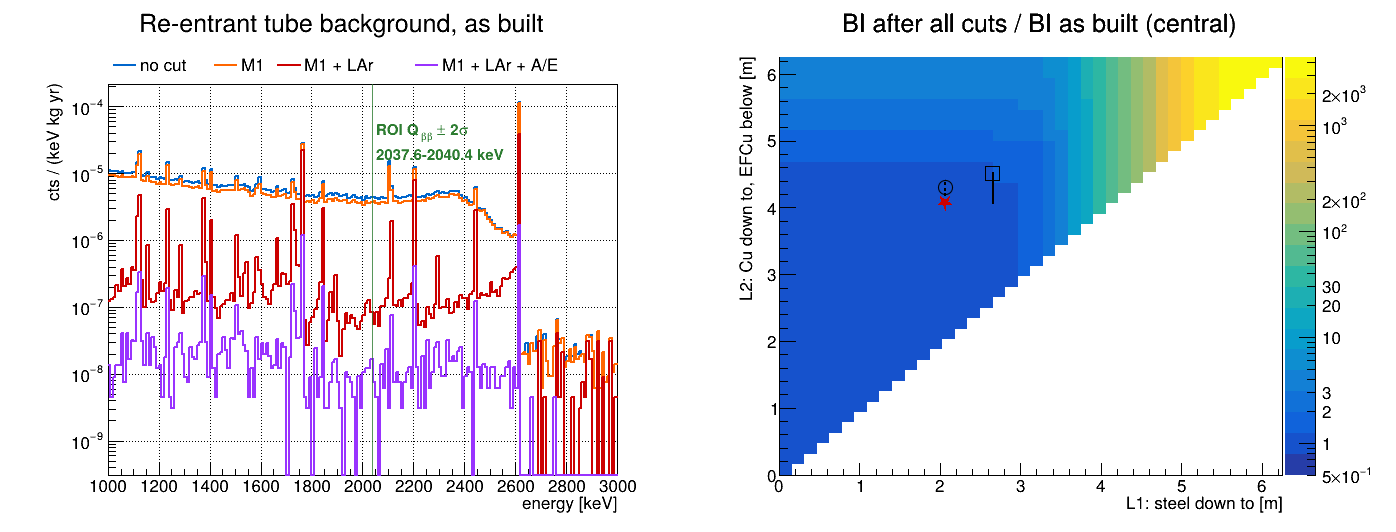
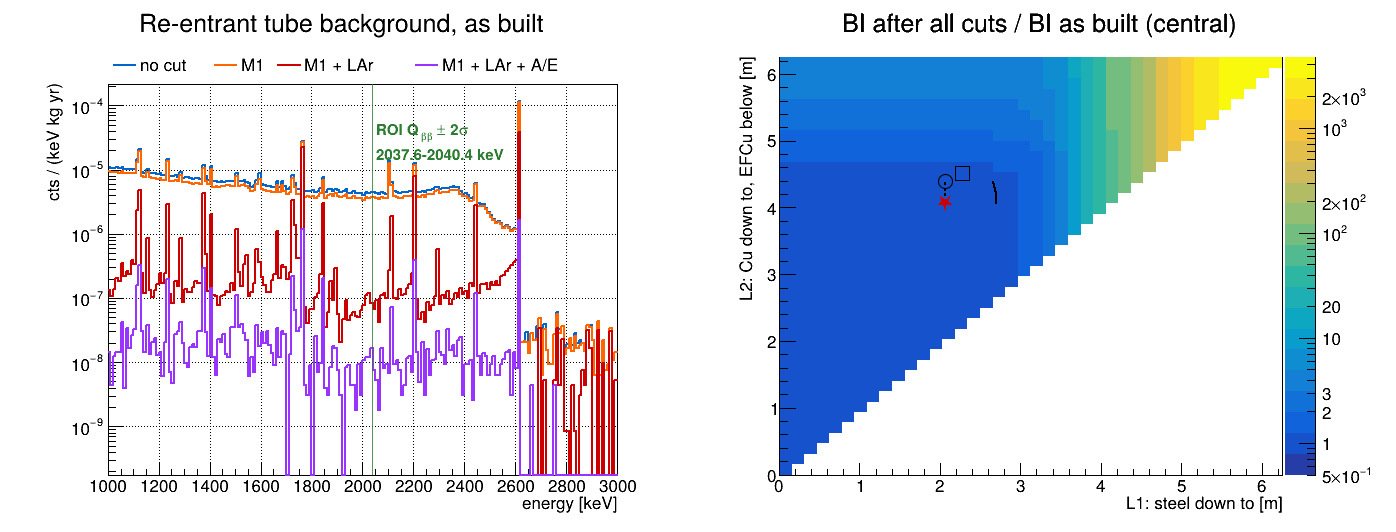
more stat (9 billion decays) better BI

diff --git a/sim/hit.py b/sim/hit.py
@@ -22,7 +22,8 @@ from legendmeta import Legend1000Metadata
 # -------------------------------------------------------------------------------
 #  1. Configuration:
 p = argparse.ArgumentParser(description="detector response of remage runs, with reboost")
-p.add_argument("stp", nargs="+", help="remage LH5 outputs (-m: one file per run)")
+p.add_argument("stp", nargs="+", help="remage LH5 outputs (-m: one file per run); the NERSC ones are in output/output_lh5")
+p.add_argument("--outdir", default="output", help="where each <run>_hit.root goes")
 p.add_argument("--gdml", default="geom/l1000.gdml")
 p.add_argument("--metadata", default=os.environ.get("LEGEND1000_METADATA", os.path.expanduser("~/Documents/legend1000-metadata")))
 p.add_argument("--optmap", default="output/merged_optmap_20260225_063750.lh5", help="UGLAr optical map; its group /all, every SiPM summed, is used")
@@ -91,7 +92,7 @@ for stp in args.stp:
     # random number is drawn from it, the germanium smearing and the argon's photons and photoelectrons alike: reboost.spms's
     # processors draw from an unseeded generator, so the argon calls the reboost.optmap.convolve functions under them
     rng = np.random.default_rng([args.seed, zlib.crc32(os.path.basename(stp).encode())])
-    out = stp.removesuffix(".lh5") + "_hit.root"
+    out = os.path.join(args.outdir, os.path.basename(stp).removesuffix(".lh5") + "_hit.root")
     origins = lh5.read("detector_origins", stp)
     on_disk = set(lh5.ls(stp, "stp/"))
     vtx = lh5.read("vtx", stp).view_as("ak")

diff --git a/README.md b/README.md
@@ -7,9 +7,9 @@ This study calculates the Background Index (BI) before and after cuts, and asks 
 
 | result                          |                                                                                                                                     |
 | ------------------------------- | ----------------------------------------------------------------------------------------------------------------------------------- |
-| as built                        | BI(before-cuts) = 4.60 × 10⁻⁶ cts/(keV·kg·yr), BI(after-cuts) = 1.11 ± 0.12 × 10⁻⁸. **Ratios: 619 : 672 : 175 kg = 42 : 46 : 12 %** |
-| 0.23m less EFCu                 | BI +6%. **Ratios: 619 : 692 : 154 kg = 42 : 47 : 11 %**                                                                             |
-| 0.43m less EFCu & 0.60m more SS | BI +8%. **Ratios: 800 : 507 : 137 kg = 55 : 35 : 10 %**                                                                             |
+| as built                        | BI(before-cuts) = 4.60 × 10⁻⁶ cts/(keV·kg·yr), BI(after-cuts) = 1.03 ± 0.10 × 10⁻⁸. **Ratios: 619 : 672 : 175 kg = 42 : 46 : 12 %** |
+| 0.33m less EFCu                 | BI +10%. **Ratios: 619 : 701 : 146 kg = 42 : 48 : 10 %**                                                                            |
+| 0.43m less EFCu & 0.22m more SS | BI +10%. **Ratios: 685 : 635 : 137 kg = 47 : 44 : 9 %**                                                                             |
 |                                 |
 
 [how radioactive is EFCu?](#how-radioactive-is-efcu) · [Method](#method) ·
@@ -107,27 +107,27 @@ The printout's DECAYS part, per chain: where the decays fell, the germanium hits
 the window), and the normalisation (`simulated` is N_sim, `weight` is N_real / N_sim):
 
 ```
-DECAYS  Tl208  (output/tl208*_hit.root, 125680279 decays, 15 files)
-    where they decayed: EFCu 18.3%, Cu 40.9%, SS 40.8%; in the argon 0, outside the tube 0
-    germanium hits: 1477398, after M1 1261435, + LAr veto 31109, + A/E 4330; of these in the window: 48973, 41447, 494, 86
-    LAr veto keeps 1 in 41 M1 hits; read off the optical map alone, without the argon beyond its edge, 1 in 14
+DECAYS  Tl208  (output/tl208*_hit.root, 1155680279 decays, 118 files)
+    where they decayed: EFCu 2.0%, Cu 39.9%, SS 58.1%; in the argon 0, outside the tube 0
+    germanium hits: 1534079, after M1 1311073, + LAr veto 32663, + A/E 4406; of these in the window: 50695, 43001, 646, 95
+    LAr veto keeps 1 in 40 M1 hits; read off the optical map alone, without the argon beyond its edge, 1 in 14
     the normalisation, per section: volume, mass, activity, simulated decays (and per m^3), weight = real decays a year per simulated one
     section   V [m^3]   M [kg]     A [Bq]  simulated     per m^3   weight
     EFCu      0.01948    174.6  2.322e-05   23040358  1182487533 3.18e-05
-    Cu        0.07497    671.7  2.656e-04   51383783   685374882 0.000163
-    SS        0.07742    619.4  2.226e-01   51256138   662015579    0.137
-    the runs sampled the EFCu 1.755 x as densely as the shells (1 = evenly): each section's weight uses its own density
+    Cu        0.07497    671.7  2.656e-04  461384081  6154102355 1.82e-05
+    SS        0.07742    619.4  2.226e-01  671255840  8669826504   0.0105
+    the runs sampled the EFCu 0.160 x as densely as the shells (1 = evenly): each section's weight uses its own density
 
-DECAYS  Bi214  (output/bi214*_hit.root, 635672115 decays, 66 files)
-    where they decayed: EFCu 3.6%, Cu 47.4%, SS 49.0%; in the argon 0, outside the tube 0
-    germanium hits: 763353, after M1 685024, + LAr veto 31387, + A/E 4346; of these in the window: 2350, 2185, 488, 21
+DECAYS  Bi214  (output/bi214*_hit.root, 7925672115 decays, 795 files)
+    where they decayed: EFCu 0.3%, Cu 40.4%, SS 59.3%; in the argon 0, outside the tube 0
+    germanium hits: 851490, after M1 765253, + LAr veto 34763, + A/E 4670; of these in the window: 2724, 2543, 607, 25
     LAr veto keeps 1 in 22 M1 hits; read off the optical map alone, without the argon beyond its edge, 1 in 10
     the normalisation, per section: volume, mass, activity, simulated decays (and per m^3), weight = real decays a year per simulated one
     section   V [m^3]   M [kg]     A [Bq]  simulated     per m^3   weight
     EFCu      0.01948    174.6  3.317e-05   23030232  1181967842 4.55e-05
-    Cu        0.07497    671.7  8.733e-04  301384853  4019976653 9.14e-05
-    SS        0.07742    619.4  1.548e+00  311257030  4020142973    0.157
-    the runs sampled the EFCu 0.294 x as densely as the shells (1 = evenly): each section's weight uses its own density
+    Cu        0.07497    671.7  8.733e-04 3201387003 42701220320 8.61e-06
+    SS        0.07742    619.4  1.548e+00 4701254880 60720610131   0.0104
+    the runs sampled the EFCu 0.023 x as densely as the shells (1 = evenly): each section's weight uses its own density
 ```
 
 ### 3. Inputs
@@ -145,7 +145,7 @@ Bi-214 is 100% of the ²³⁸U chain; Tl-208 35.94% of the ²³²Th chain [[8]](
 
 ```
 INPUTS  window: 1950-2350 keV minus 10 keV around 2039, 2103.5, 2118.5, 2204.1 keV (MAJORANA's BEW): 360 keV
-        cuts: M1 (exactly one detector above 25 keV), LAr veto (the SiPMs see < 4 photoelectrons), A/E classifier > -1.10 (90% DEP, A/E CUT)
+        cuts: M1 (exactly one detector above 25 keV), LAr veto (the SiPMs see < 4 photoelectrons), A/E classifier > -1.07 (90% DEP, A/E CUT)
         activity: chain [uBq/kg] 232Th / 238U: SS 1000 / 2500, Cu 1.1 / 1.3, EFCu 0.37 / 0.19; Tl208 is 35.94% of 232Th, Bi214 100% of 238U
 ```
 
@@ -159,7 +159,7 @@ experiment `l1000dsg01`) [[6]](#references), applied with reboost [[7]](#referen
 | A/E            | A: max of one template current pulse per step, at its drift time; σ_A/E = 0.01                   | `pars/geds/currmod`, `aoeresmod`; `output/dtmap_V00000A.lh5` |
 | photoelectrons | LAr scintillation × the summed optical map; σ 0.3 PE, 16 ns merging, ≤ 100 PE per hit            | `/all` of the optical map; `tier/opt`                        |
 | M1, LAr veto   | one detector above 25 keV; rejects ≥ 4 PE summed                                                 | `tier/evt`                                                   |
-| A/E cut        | classifier > −1.10, tuned to keep 90% of the Tl-208 DEP; the production's −1.5 keeps 91%         | LEGEND's convention                                          |
+| A/E cut        | classifier > −1.07, tuned to keep 90% of the Tl-208 DEP; the production's −1.5 keeps 92%         | LEGEND's convention                                          |
 
 - **A/E** is the amplitude of the current-pulse over the energy. A gamma that scatters several times
   in the crystal spreads its charge out in time, giving a broad, low pulse: A/E << 1.
@@ -169,9 +169,9 @@ experiment `l1000dsg01`) [[6]](#references), applied with reboost [[7]](#referen
   window, next to `V00000A`'s measurement at HADES:
 
   ```
-  A/E CUT  tuned on the Tl208 DEP (1592.5 keV) in M1 hits: 1000 in +-2.5 keV, 1026 in the sidebands 5-10 keV off it, 487 net
-      classifier > -1.10 keeps 90% of it (+- 1% statistics); the production's > -1.50 kept 91%
-      kept by it, net of the continuum:  DEP 1592.5 0.90 (487 net)  SEP 2103.5 0.02 (2798 net)  FEP 2614.5 0.04 (35540 net)  window 0.26 (41447)
+  A/E CUT  tuned on the Tl208 DEP (1592.5 keV) in M1 hits: 1045 in +-2.5 keV, 1089 in the sidebands 5-10 keV off it, 500 net
+      classifier > -1.07 keeps 90% of it (+- 1% statistics); the production's > -1.50 kept 92%
+      kept by it, net of the continuum:  DEP 1592.5 0.90 (500 net)  SEP 2103.5 0.02 (2862 net)  FEP 2614.5 0.04 (36212 net)  window 0.25 (43001)
       measured on V00000A at HADES:       DEP 1592.5 0.90            SEP 2103.5 0.04            FEP 2614.5 0.06            window 0.27
   ```
 - **Optical map** (M. Neuberger [[5]](#references)): for every 5 mm cell of the UGLAr, the probability that a
@@ -184,39 +184,39 @@ A designs BI is the as-built's plus the change. Too few events survive all cuts 
 them, so it is counted on the window events that pass M1, 100-500 times more, times the **cut survival**: the fraction of
 them that also pass the LAr veto and A/E (window events after all cuts / after M1). It is measured where the change is:
 
-- near the detectors (below 4.37 m), per chain: 2.0 × 10⁻³ (Tl-208), 9.9 × 10⁻³ (Bi-214);
-- higher up, both chains together: 4 of 662 = 6.0 × 10⁻³ (90% bound 1.2 × 10⁻²). Tl-208's events survive
-  ~3 × more often there, partly because the optical map gives no light above z = 1.375 m.
+- near the detectors (below 4.37 m), per chain: 1.9 × 10⁻³ (Tl-208), 9.9 × 10⁻³ (Bi-214);
+- higher up, both chains together: 20 of 2574 = 7.8 × 10⁻³ (90% bound 1.0 × 10⁻²). Tl-208's events survive
+  ~4 × more often there, partly because the optical map gives no light above z = 1.375 m.
 
 Both come from the printout's DEPTH part, per chain and 0.62 m slab below the tube's top: near, the rows below
-4.37 m summed; higher up, the rows above summed over both chains (Tl-208 2 + 41 + 566, Bi-214 8 + 45 = 662
-events after M1, 4 after all cuts):
+4.37 m summed; higher up, the rows above summed over both chains (Tl-208 1 + 13 + 324 + 1825, Bi-214 2 + 64 + 345 = 2574
+events after M1, 20 after all cuts):
 
 ```
 DEPTH  Tl208  by depth below the tube's top: decays, germanium hits per decay, window events after M1 and after all cuts,
        and the cut survival = window events after all cuts / after M1
     depth [m]            decays   hits/decay   window: M1   all cuts   survival
-     0.00..0.62       15527714     0.00e+00            0          0      -
-     0.62..1.25       15520616     0.00e+00            0          0      -
-     1.25..1.87       15528133     0.00e+00            0          0      -
-     1.87..2.50       15896343     6.29e-08            0          0      -
-     2.50..3.12       16043166     3.43e-06            2          0 0.0000
-     3.12..3.75       16051397     8.74e-05           41          2 0.0488
-     3.75..4.37       11560446     1.74e-03          566          2 0.0035
+     0.00..0.62      203333344     0.00e+00            0          0      -
+     0.62..1.25      203322352     0.00e+00            0          0      -
+     1.25..1.87      203326079     9.84e-09            0          0      -
+     1.87..2.50      162294983     1.48e-07            1          0 0.0000
+     2.50..3.12      144561683     3.94e-06           13          0 0.0000
+     3.12..3.75      144567606     8.79e-05          324          6 0.0185
+     3.75..4.37       74721768     8.70e-04         1825         10 0.0055
      4.37..5.00        6949906     4.53e-02         8960         19 0.0021
-     5.00..5.62        6947684     1.07e-01        20651         45 0.0022
-     5.62..6.25        5654874     6.98e-02        11227         18 0.0016   <- nearest the detectors
+     5.00..5.62        6947684     1.07e-01        20651         44 0.0021
+     5.62..6.25        5654874     6.98e-02        11227         16 0.0014   <- nearest the detectors
 
 DEPTH  Bi214  by depth below the tube's top: decays, germanium hits per decay, window events after M1 and after all cuts,
        and the cut survival = window events after all cuts / after M1
     depth [m]            decays   hits/decay   window: M1   all cuts   survival
-     0.00..0.62       94273410     0.00e+00            0          0      -
-     0.62..1.25       94293221     0.00e+00            0          0      -
-     1.25..1.87       94290361     0.00e+00            0          0      -
-     1.87..2.50       94371578     2.12e-08            0          0      -
-     2.50..3.12       94424017     3.71e-07            0          0      -
-     3.12..3.75       94410451     1.40e-05            8          0 0.0000
-     3.75..4.37       50064866     2.51e-04           45          0 0.0000
+     0.00..0.62     1424091422     0.00e+00            0          0      -
+     0.62..1.25     1424081353     0.00e+00            0          0      -
+     1.25..1.87     1424033087     0.00e+00            0          0      -
+     1.87..2.50     1130168048     5.31e-09            0          0      -
+     2.50..3.12     1003529040     4.19e-07            2          0 0.0000
+     3.12..3.75     1003487464     1.44e-05           64          1 0.0156
+     3.75..4.37      496737490     1.75e-04          345          3 0.0087
      4.37..5.00        6943838     2.28e-02          454          5 0.0110
      5.00..5.62        6943493     5.59e-02         1099         10 0.0091
      5.62..6.25        5656880     3.59e-02          579          6 0.0104   <- nearest the detectors
@@ -230,16 +230,16 @@ is shown too.
 
 ## Results
 
-761 M tube decays = Tl-208 / Bi-214 --> 2.9M / 2.9M whole tube, 22.8M / 22.8M EFCu, 50M / 300M Cu, 50M / 310M SS;
+9081 M tube decays = Tl-208 / Bi-214 --> 2.9M / 2.9M whole tube, 22.8M / 22.8M EFCu, 460M / 3200M Cu, 670M / 4700M SS;
 
-After all cuts: 107
-window events (±11%), 104 from the EFCu (83 Tl-208, 21 Bi-214), 3 from the Cu, none from the SS.
+After all cuts: 120
+window events (±10%), 101 from the EFCu (80 Tl-208, 21 Bi-214), 19 from the Cu, none from the SS.
 
 **The BI as-built: (10⁻⁵ budget)**
 
 |     | no cut                   | M1                                   | M1 + LAr                                                 | all (M1+LAr+A/E)                                                |
 | --- | ------------------------ | ------------------------------------ | -------------------------------------------------------- | --------------------------------------------------------------- |
-|     | 4.60 × 10⁻⁶ (46% budget) | 3.92 × 10⁻⁶ (39% budget) removes 15% | 1.14 ± 0.04 × 10⁻⁷ (1% budget) LAr vetos 97% of the rest | **1.11 ± 0.12 × 10⁻⁸ (0.1% budget)** A/E is 90% of what is left |
+|     | 4.60 × 10⁻⁶ (46% budget) | 3.92 × 10⁻⁶ (39% budget) removes 15% | 1.11 ± 0.03 × 10⁻⁷ (1% budget) LAr vetos 97% of the rest | **1.03 ± 0.10 × 10⁻⁸ (0.1% budget)** A/E is 91% of what is left |
 
 The printout's BI AS BUILT part, per chain and section; `win hits` counts the window events at each cut level
 (no cut / M1 / + LAr / + A/E):
@@ -247,22 +247,22 @@ The printout's BI AS BUILT part, per chain and section; `win hits` counts the wi
 ```
 BI AS BUILT  [cts/(keV kg yr)], +- simulation statistics; a section with no window event gets its 90% limit, 2.30 x its heaviest decay
     chain  sect          win hits   no cut                 M1                     M1 + LAr               M1 + LAr + A/E
-    Tl208  SS             0/0/0/0   < 8.56e-07 (90%)       < 8.56e-07 (90%)       < 8.56e-07 (90%)       < 8.56e-07 (90%)
-           Cu        222/202/26/3   9.83e-08 +- 6.6e-09    8.94e-08 +- 6.3e-09    1.15e-08 +- 2.3e-09    1.33e-09 +- 7.7e-10
-           EFCu   48751/41245/468/83   4.21e-06 +- 1.9e-08    3.56e-06 +- 1.8e-08    4.04e-08 +- 1.9e-09    7.16e-09 +- 7.9e-10
-           tube                     4.31e-06 +- 2.0e-08    3.65e-06 +- 1.9e-08    5.19e-08 +- 2.9e-09    8.49e-09 +- 1.1e-09
-    Bi214  SS             0/0/0/0   < 9.80e-07 (90%)       < 9.80e-07 (90%)       < 9.80e-07 (90%)       < 9.80e-07 (90%)
-           Cu          40/38/12/0   9.93e-09 +- 1.6e-09    9.43e-09 +- 1.5e-09    2.98e-09 +- 8.6e-10    < 1.94e-09 (90%)
+    Tl208  SS             0/0/0/0   < 9.20e-08 (90%)       < 9.20e-08 (90%)       < 9.20e-08 (90%)       < 9.20e-08 (90%)
+           Cu     1944/1756/178/15   9.58e-08 +- 2.2e-09    8.66e-08 +- 2.1e-09    8.78e-09 +- 6.6e-10    7.40e-10 +- 1.9e-10
+           EFCu   48751/41245/468/80   4.21e-06 +- 1.9e-08    3.56e-06 +- 1.8e-08    4.04e-08 +- 1.9e-09    6.90e-09 +- 7.7e-10
+           tube                     4.30e-06 +- 1.9e-08    3.65e-06 +- 1.8e-08    4.92e-08 +- 2.0e-09    7.64e-09 +- 8.0e-10
+    Bi214  SS             0/0/0/0   < 9.23e-08 (90%)       < 9.23e-08 (90%)       < 9.23e-08 (90%)       < 9.23e-08 (90%)
+           Cu       414/396/131/4   9.67e-09 +- 4.8e-10    9.25e-09 +- 4.6e-10    3.06e-09 +- 2.7e-10    9.35e-11 +- 4.7e-11
            EFCu   2310/2147/476/21   2.85e-07 +- 5.9e-09    2.65e-07 +- 5.7e-09    5.87e-08 +- 2.7e-09    2.59e-09 +- 5.7e-10
-           tube                     2.95e-07 +- 6.1e-09    2.74e-07 +- 5.9e-09    6.17e-08 +- 2.8e-09    2.59e-09 +- 5.7e-10
+           tube                     2.95e-07 +- 5.9e-09    2.74e-07 +- 5.7e-09    6.18e-08 +- 2.7e-09    2.68e-09 +- 5.7e-10
     ALL CHAINS
-      no cut           4.60e-06 +- 2.1e-08 (0.46 x goal)
-      M1               3.92e-06 +- 2.0e-08 (0.39 x goal)
-      M1 + LAr         1.14e-07 +- 4.1e-09 (0.011 x goal)
-      M1 + LAr + A/E   1.11e-08 +- 1.2e-09 (0.0011 x goal)
+      no cut           4.60e-06 +- 2.0e-08 (0.46 x goal)
+      M1               3.92e-06 +- 1.9e-08 (0.39 x goal)
+      M1 + LAr         1.11e-07 +- 3.4e-09 (0.011 x goal)
+      M1 + LAr + A/E   1.03e-08 +- 9.8e-10 (0.001 x goal)
     ...with the LAr veto read off the optical map alone, no light from the argon beyond its edge:
-      M1 + LAr         2.79e-07 +- 5.7e-09 (0.028 x goal)
-      M1 + LAr + A/E   3.28e-08 +- 1.9e-09 (0.0033 x goal)
+      M1 + LAr         2.76e-07 +- 5.1e-09 (0.028 x goal)
+      M1 + LAr + A/E   3.25e-08 +- 1.7e-09 (0.0033 x goal)
     win hits: per cut level, as in the columns. sections with no window hit are left out of the totals
 ```
 
@@ -270,26 +270,27 @@ BI AS BUILT  [cts/(keV kg yr)], +- simulation statistics; a section with no wind
 
 | EFCu from (`L2`)  | EFCu       | at 90%: SS to | SS : Cu : EFCu         | BI rise | central: SS to | SS : Cu : EFCu         | BI rise |
 | ----------------- | ---------- | ------------- | ---------------------- | ------- | -------------- | ---------------------- | ------- |
-| 4.07 m, as built  | 175 kg     | 2.06 m        | 619 : 672 : 175 kg     | 0%      | 2.66 m         | 800 : 470 : 175 kg     | 0%      |
-| 4.20 m            | 163 kg     | 2.06 m        | 619 : 684 : 163 kg     | 3%      | 2.66 m         | 800 : 482 : 163 kg     | 1%      |
-| **4.30 m**        | **154 kg** | **2.06 m**    | **619 : 692 : 154 kg** | **6%**  | 2.66 m         | 800 : 490 : 154 kg     | 3%      |
-| **4.50 m**        | **137 kg** | fails         |                        |         | **2.66 m**     | **800 : 507 : 137 kg** | **8%**  |
+| 4.07 m, as built  | 175 kg     | 2.06 m        | 619 : 672 : 175 kg     | 0%      | 2.69 m         | 809 : 460 : 175 kg     | 6%      |
+| 4.20 m            | 163 kg     | 2.06 m        | 619 : 684 : 163 kg     | 3%      | 2.69 m         | 809 : 472 : 163 kg     | 8%      |
+| 4.30 m            | 154 kg     | 2.06 m        | 619 : 692 : 154 kg     | 6%      | 2.69 m         | 809 : 480 : 154 kg     | 10%     |
+| **4.40 m**        | **146 kg** | **2.06 m**    | **619 : 701 : 146 kg** | **10%** | 2.66 m         | 800 : 499 : 146 kg     | 9%      |
+| **4.50 m**        | **137 kg** | fails         |                        |         | **2.28 m**     | **685 : 635 : 137 kg** | **10%** |
 | 4.60 m and deeper | ≤ 129 kg   | fails         |                        |         | fails          |                        |         |
 
 The printout's DESIGNS part: for each depth `L2` where the EFCu starts, the deepest `L1` where the SS can end and
 still pass; its last lines are the decays SS still needs ([How many decays](#nersc)):
 
 ```
-DESIGNS  against the tube as built (BI 1.11e-08 after all cuts): SS down to L1, Cu down to L2, EFCu below. a design passes when its BI
+DESIGNS  against the tube as built (BI 1.03e-08 after all cuts): SS down to L1, Cu down to L2, EFCu below. a design passes when its BI
     rises by at most 10%: at 90% confidence (bound), or on the central value (central). L1 from 2.06 m down, 1 cm at a time
-    a design's change is counted on window events after M1 x the cut survival (see DEPTH): below 4.37 m Tl208 2.01e-03 Bi214 9.85e-03; above it, both chains, 4 of 662 = 6.04e-03 (90% bound 1.21e-02)
+    a design's change is counted on window events after M1 x the cut survival (see DEPTH): below 4.37 m Tl208 1.93e-03 Bi214 9.85e-03; above it, both chains, 20 of 2574 = 7.77e-03 (90% bound 1.04e-02)
     L2 [m]   EFCu | bound: L1 SS : Cu : EFCu                         rise | central L1 SS : Cu : EFCu                         rise
-    4.07   175 kg |    2.06 m  619 : 672 : 175 kg = 42 : 46 : 12 %      +0% |    2.66 m  800 : 470 : 175 kg = 55 : 33 : 12 %      +0%   <- EFCu as built
-    4.10   171 kg |    2.06 m  619 : 675 : 171 kg = 42 : 46 : 12 %      +1% |    2.66 m  800 : 473 : 171 kg = 55 : 33 : 12 %      +0%
-    4.20   163 kg |    2.06 m  619 : 684 : 163 kg = 42 : 47 : 11 %      +3% |    2.66 m  800 : 482 : 163 kg = 55 : 33 : 11 %      +1%
-    4.30   154 kg |    2.06 m  619 : 692 : 154 kg = 42 : 47 : 11 %      +6% |    2.66 m  800 : 490 : 154 kg = 55 : 34 : 11 %      +3%
-    4.40   146 kg | -         rises too much at any L1                    |    2.66 m  800 : 499 : 146 kg = 55 : 35 : 10 %      +5%
-    4.50   137 kg | -         rises too much at any L1                    |    2.66 m  800 : 507 : 137 kg = 55 : 35 : 10 %      +8%
+    4.07   175 kg |    2.06 m  619 : 672 : 175 kg = 42 : 46 : 12 %      +0% |    2.69 m  809 : 460 : 175 kg = 56 : 32 : 12 %      +6%   <- EFCu as built
+    4.10   171 kg |    2.06 m  619 : 675 : 171 kg = 42 : 46 : 12 %      +1% |    2.69 m  809 : 463 : 171 kg = 56 : 32 : 12 %      +6%
+    4.20   163 kg |    2.06 m  619 : 684 : 163 kg = 42 : 47 : 11 %      +3% |    2.69 m  809 : 472 : 163 kg = 56 : 33 : 11 %      +8%
+    4.30   154 kg |    2.06 m  619 : 692 : 154 kg = 42 : 47 : 11 %      +6% |    2.69 m  809 : 480 : 154 kg = 56 : 33 : 11 %     +10%
+    4.40   146 kg |    2.06 m  619 : 701 : 146 kg = 42 : 48 : 10 %     +10% |    2.66 m  800 : 499 : 146 kg = 55 : 35 : 10 %      +9%
+    4.50   137 kg | -         rises too much at any L1                    |    2.28 m  685 : 635 : 137 kg = 47 : 44 :  9 %     +10%
     4.60   129 kg | -         rises too much at any L1                    | -         rises too much at any L1
     4.70   121 kg | -         rises too much at any L1                    | -         rises too much at any L1
     4.80   112 kg | -         rises too much at any L1                    | -         rises too much at any L1
@@ -299,25 +300,25 @@ DESIGNS  against the tube as built (BI 1.11e-08 after all cuts): SS down to L1, 
     5.50    53 kg | -         rises too much at any L1                    | -         rises too much at any L1
     5.75    32 kg | -         rises too much at any L1                    | -         rises too much at any L1
     6.00    11 kg | -         rises too much at any L1                    | -         rises too much at any L1
-    least EFCu, then most SS, at 90% confidence: L2 4.30 m, L1 2.06 m:  619 : 692 : 154 kg = 42 : 47 : 11 %
-    least EFCu, then most SS, on the central value: L2 4.50 m, L1 2.66 m:  800 : 507 : 137 kg = 55 : 35 : 10 %
+    least EFCu, then most SS, at 90% confidence: L2 4.40 m, L1 2.06 m:  619 : 701 : 146 kg = 42 : 48 : 10 %
+    least EFCu, then most SS, on the central value: L2 4.50 m, L1 2.28 m:  685 : 635 : 137 kg = 47 : 44 :  9 %
     as built:  619 : 672 : 175 kg = 42 : 46 : 12 %. rise: over the BI as built, the 90% bound on the change (bound) or the change itself (central)
     a depth range with no window event after M1 still bounds what SS there would add, at 2.30 x the cut survival x its weight;
     the decays that bring that bound under 5% of the BI as built, per chain:
-      Tl208  SS added in the Cu section       51383783 decays now: bound    45%; 4.6e+08 decays would bring it to 5%
-      Tl208  the SS as built                  51256138 decays now: bound    47%; 4.8e+08 decays would bring it to 5%
-      Bi214  SS added in the Cu section      301384853 decays now: bound    53%; 3.2e+09 decays would bring it to 5%
-      Bi214  the SS as built                 311257030 decays now: bound    53%; 3.3e+09 decays would bring it to 5%
+      Tl208  SS added in the Cu section      461384081 decays now: bound     7%; 6.4e+08 decays would bring it to 5%
+      Tl208  the SS as built                 671255840 decays now: bound     5%; 6.6e+08 decays would bring it to 5%
+      Bi214  SS added in the Cu section     3201387003 decays now: bound     7%; 4.4e+09 decays would bring it to 5%
+      Bi214  the SS as built                4701254880 decays now: bound     5%; 4.6e+09 decays would bring it to 5%
 ```
 
-- **EFCu** can start 23 cm lower, at 4.30 m (154 kg, −12%), shown at 90%; on the central value at 4.50 m
+- **EFCu** can start 33 cm lower, at 4.40 m (146 kg, −17%), shown at 90%; on the central value at 4.50 m
   (137 kg, −22%). Below that the Cu next to the detectors, at 3-7 × EFCu's activity, adds too much at any
   SS seam.
-- **SS** reaches 2.66 m on the central value only because no decay between 2.06 and 2.66 m put an event
-  in the window, in either chain. That is the statistics' silence, not a measurement: at 90% each empty slab
-  still allows +45% (Tl-208) and +53% (Bi-214), so no extra SS is shown yet. Below 2.66 m the first
-  events appear, and each costs ~20% of the BI.
-- **The reference itself** has the same gap: the SS as built is bounded only at +47% and +53% per chain.
+- **SS** reaches 2.69 m on the central value with the EFCu as built (+6%), and 2.28 m with the EFCu from 4.50 m.
+  At 90% no extra SS is shown yet: SS added in the Cu section is still bounded at +7% per chain, the two
+  chains together above the 10% line. About 1.8 × 10⁸ Tl-208 and 1.2 × 10⁹ Bi-214 more Cu decays would bring
+  each to 5%.
+- **The reference itself**: the SS as built is now bounded at +5% per chain (stage E).
 
 ![background](output/background.png)
 
@@ -348,22 +349,22 @@ root -l -b -q ana/background.C
 With a new optical map, no new simulation: only the response and the analysis rerun.
 
 ```bash
-~/venvs/v/bin/python sim/hit.py --optmap output/<new map>.lh5 output/tl208*.lh5 output/bi214*.lh5
+~/venvs/v/bin/python sim/hit.py --optmap output/<new map>.lh5 output/tl208*.lh5 output/bi214*.lh5 output/output_lh5/*.lh5
 root -l -b -q ana/background.C
 ```
 
 ### NERSC
 
 ```bash
-ssh nersc 'mkdir -p $SCRATCH/LEGEND1000-Simulation/sim $SCRATCH/LEGEND1000-Simulation/geom $SCRATCH/LEGEND1000-Simulation/output'
+ssh nersc 'mkdir -p $SCRATCH/LEGEND1000-Simulation/sim $SCRATCH/LEGEND1000-Simulation/geom $SCRATCH/LEGEND1000-Simulation/output/output_lh5'
 rsync -a geom/l1000.gdml nersc:'$SCRATCH/LEGEND1000-Simulation/geom/'
 rsync -a sim/run.mac nersc:'$SCRATCH/LEGEND1000-Simulation/sim/'
 ssh nersc 'shifterimg pull docker:legendexp/remage:v1.1.0'
-ssh nersc 'cd $SCRATCH/LEGEND1000-Simulation && sbatch --account=m2676 --qos=debug --constraint=cpu --nodes=1 --time=00:30:00 --output=output/rt_test.log --image=docker:legendexp/remage:v1.1.0 --job-name=rt_test --wrap "shifter --module=none remage -q --ignore-warnings -t 32 -w -m -s GDML=geom/l1000.gdml -s NEV=20000 -s SEED=9999 -o output/rt_test.lh5 -s Z=81 -s A=208 -s VOLS=reentrance_tube_copper -- sim/run.mac"'
+ssh nersc 'cd $SCRATCH/LEGEND1000-Simulation && sbatch --account=m2676 --qos=debug --constraint=cpu --nodes=1 --time=00:30:00 --output=output/rt_test.log --image=docker:legendexp/remage:v1.1.0 --job-name=rt_test --wrap "shifter --module=none remage -q --ignore-warnings -t 32 -w -m -s GDML=geom/l1000.gdml -s NEV=20000 -s SEED=9999 -o output/output_lh5/rt_test.lh5 -s Z=81 -s A=208 -s VOLS=reentrance_tube_copper -- sim/run.mac"'
 ```
 
 ```bash
-ssh nersc 'cd $SCRATCH/LEGEND1000-Simulation && sbatch --account=m2676 --qos=shared --constraint=cpu --cpus-per-task=32 --time=<TIME> --output=output/%x_%a.log --image=docker:legendexp/remage:v1.1.0 --array=<SEEDS> --job-name=<NAME> --wrap "shifter --module=none remage -q --ignore-warnings -t 32 -w -m -s GDML=geom/l1000.gdml -s NEV=10000000 -s SEED=\$SLURM_ARRAY_TASK_ID -o output/<NUCLIDE>_\$SLURM_ARRAY_TASK_ID.lh5 -s Z=<Z> -s A=<A> -s VOLS=<VOLS> -- sim/run.mac"'
+ssh nersc 'cd $SCRATCH/LEGEND1000-Simulation && sbatch --account=m2676 --qos=shared --constraint=cpu --cpus-per-task=32 --time=<TIME> --output=output/%x_%a.log --image=docker:legendexp/remage:v1.1.0 --array=<SEEDS> --job-name=<NAME> --wrap "shifter --module=none remage -q --ignore-warnings -t 32 -w -m -s GDML=geom/l1000.gdml -s NEV=10000000 -s SEED=\$SLURM_ARRAY_TASK_ID -o output/output_lh5/<NUCLIDE>_\$SLURM_ARRAY_TASK_ID.lh5 -s Z=<Z> -s A=<A> -s VOLS=<VOLS> -- sim/run.mac"'
 ```
 
 | jobs | `<SEEDS>`             | `<NAME>`                          | `<NUCLIDE>` `<Z>` `<A>`     | `<VOLS>`                            | `<TIME>` |
@@ -405,7 +406,7 @@ numbers (energy smearing, photons, photoelectrons), so a file always gives the s
 ssh nersc 'squeue --me'
 ssh nersc 'sacct -X -S today --format=JobID%18,JobName%16,State,Elapsed'
 ssh nersc 'scancel -u $USER'
-rsync -a --include='*_[0-9][0-9][0-9][0-9].lh5' --exclude='*' nersc:'$SCRATCH/LEGEND1000-Simulation/output/' output/
+rsync -a --include='*_[0-9][0-9][0-9][0-9].lh5' --exclude='*' nersc:'$SCRATCH/LEGEND1000-Simulation/output/output_lh5/' output/output_lh5/
 ssh nersc 'rm -r $SCRATCH/LEGEND1000-Simulation'
 ```
 
@@ -414,7 +415,7 @@ ssh nersc 'rm -r $SCRATCH/LEGEND1000-Simulation'
 | source                             |                                                                                                                                                                                                                                                                                                            |
 | ---------------------------------- | ---------------------------------------------------------------------------------------------------------------------------------------------------------------------------------------------------------------------------------------------------------------------------------------------------------- |
 | `sim/run.mac`                      | the tube simulation; `-s` aliases `GDML`, `Z` `A` (Tl-208: 81 208, Bi-214: 83 214), `NEV`, `SEED`, and `VOLS`, a regex over the source volumes: `reentrance_tube_.*` (whole tube) or one section, `reentrance_tube_copper` (EFCu), `reentrance_tube_layer_copper_ofhc`, `reentrance_tube_layer_steel_316L` |
-| `sim/hit.py`                       | the detector response; takes remage outputs, plus `--optmap`, `--dtmap`, `--metadata`, `--gdml`, `--seed` (defaults: the inputs below, seed 1)                                                                                                                                                             |
+| `sim/hit.py`                       | the detector response; takes remage outputs, plus `--optmap`, `--dtmap`, `--metadata`, `--gdml`, `--seed`, `--outdir` (defaults: the inputs below, seed 1, `output/`)                                                                                                                                      |
 | `ana/background.C`                 | the analysis and its figures; takes the tube runs (`file=isotope`, wildcards merge files) and the GDML; the cuts, activities and pass line are in `cfg` (`m1_keV`, `lar_pe`, `depKeep`, `chain`, `simTol`)                                                                                                 |
 | `sim/holders.mac`, `ana/holders.C` | the [proof of concept](#how-radioactive-is-efcu): whole chains in the holders; their spectrum                                                                                                                                                                                                              |
 | `geom/l1000-autopeel.py`           | the geometry viewer; `--holders`, `--tube`, `--uglar`, `--hpge <png>` draw one part alone, offscreen, and print its numbers                                                                                                                                                                                |
@@ -428,7 +429,7 @@ ssh nersc 'rm -r $SCRATCH/LEGEND1000-Simulation'
 
 | output (`output/`)                        | from                                      | holds                                                                                                                                                                                                                                                                    |
 | ----------------------------------------- | ----------------------------------------- | ------------------------------------------------------------------------------------------------------------------------------------------------------------------------------------------------------------------------------------------------------------------------ |
-| `tl208*.lh5`, `bi214*.lh5`                | `sim/run.mac`                             | `stp/` (336 germanium tables and `liquid_argon_underground`), `vtx` (one row per decay), `tcm`, `detector_origins`. Kept: every rerun starts here                                                                                                                        |
+| `tl208*.lh5`, `bi214*.lh5`                | `sim/run.mac`                             | `stp/` (336 germanium tables and `liquid_argon_underground`), `vtx` (one row per decay), `tcm`, `detector_origins`. Kept: every rerun starts here. The NERSC ones are in `output/output_lh5`, a link to `~/Downloads/output_lh5`                                         |
 | `<run>_hit.root`                          | `sim/hit.py`                              | TTrees `geds` (`evtid`, `det`, `edep`, `energy` [keV], `aoe_class`), `lar` (`evtid`, `edep`, `pe`, `pe_map`), `vtx` (`evtid`, `xloc`, `yloc`, `zloc` [m]). Only `ana/background.C` reads them: deleted once it has run; `sim/hit.py` rebuilds the same ones, ~7 s a file |
 | `tube.png`, `background.png`              | `ana/background.C`                        | [Method](#method), [Results](#results)                                                                                                                                                                                                                                   |
 | `holders_th232.root`, `holders_u238.root` | `sim/holders.mac`                         | `stp/germanium`, every germanium step (`evtid`, `det_uid`, `edep_in_keV`, `time_in_ns`, ...); `stp/vtx`, one row per chain                                                                                                                                               |
@@ -444,9 +445,9 @@ and `sim/RalphSim_materialMix.ipynb` are reference only, for Edgar's older-geome
 - Every detector is the dummy `V99999Z`; the A/E cut is one value tuned on simulation, from a single current
   template, not a pulse-shape library.
 - The optical map is v0.4.0's: the outer 68 mm of this UGLAr is read at its edge, and argon above
-  z = 1.375 m gives no light. The BI is a 1.1-3.3 × 10⁻⁸ range until the 0.6.0 map arrives.
+  z = 1.375 m gives no light. The BI is a 1.0-3.3 × 10⁻⁸ range until the 0.6.0 map arrives.
 - A design's change is counted on M1 window events × the cut survival, assuming it is the same across each
-  region; higher up it rests on 4 events. More SS is not shown at 90% for lack of decays.
+  region; higher up it rests on 20 events. More SS is not shown at 90% for lack of decays.
 - The SiPMs are summed: the production's second veto condition (4 SiPMs with light) is not applied; no
   random coincidences.
 - Reweighting changes activities, not geometry.
@@ -454,15 +455,15 @@ and `sim/RalphSim_materialMix.ipynb` are reference only, for Edgar's older-geome
 
 ## Future work
 
-| ‹placeholder›                               | adds                                                                                      | needs                                                                                  |
-| ------------------------------------------- | ----------------------------------------------------------------------------------------- | -------------------------------------------------------------------------------------- |
-| ‹optical map for 0.6.0›                     | light from the outer 68 mm and above z = 1.375 m: one BI, and the cut survival higher up  | the collaboration's map (legend-exp/optmapper), reaching r = 1.0 m                     |
-| ‹SS statistics›                             | the SS as built, and more SS, shown at 90%                                                | the SS-section runs, stage E in [NERSC](#nersc)                                        |
-| ‹per-SiPM veto›, ‹random coincidences›      | the production's second veto condition; ³⁹Ar and dark-noise light                         | the map's 252 channels; forced-trigger SiPM data (both in legend-simflow's `evt` tier) |
-| ‹pulse-shape-library A/E›, ‹real detectors› | A/E that knows where the charge was made; each detector's own FCCD, resolution, A/E       | a library per detector (legend-simflow); characterized detectors                       |
-| ‹reach extrapolation›                       | an estimate where the MC has no hits                                                      | a validated model of the hit probability vs height                                     |
-| ‹margin›                                    | a design that survives activities being off (MAJORANA's were ~5 × low [[1]](#references)) | activities varied in `cfg::chain`                                                      |
-| ‹Hall C geometry›                           | 12-detector strings and a longer tube                                                     | `string: units: n: 12` in a legend-pygeom-l1000 config                                 |
+| ‹placeholder›                               | adds                                                                                      | needs                                                                                      |
+| ------------------------------------------- | ----------------------------------------------------------------------------------------- | ------------------------------------------------------------------------------------------ |
+| ‹optical map for 0.6.0›                     | light from the outer 68 mm and above z = 1.375 m: one BI, and the cut survival higher up  | the collaboration's map (legend-exp/optmapper), reaching r = 1.0 m                         |
+| ‹Cu statistics›                             | more SS, shown at 90%                                                                     | ~1.8 × 10⁸ Tl-208 and 1.2 × 10⁹ Bi-214 more Cu-section decays (a stage F, [NERSC](#nersc)) |
+| ‹per-SiPM veto›, ‹random coincidences›      | the production's second veto condition; ³⁹Ar and dark-noise light                         | the map's 252 channels; forced-trigger SiPM data (both in legend-simflow's `evt` tier)     |
+| ‹pulse-shape-library A/E›, ‹real detectors› | A/E that knows where the charge was made; each detector's own FCCD, resolution, A/E       | a library per detector (legend-simflow); characterized detectors                           |
+| ‹reach extrapolation›                       | an estimate where the MC has no hits                                                      | a validated model of the hit probability vs height                                         |
+| ‹margin›                                    | a design that survives activities being off (MAJORANA's were ~5 × low [[1]](#references)) | activities varied in `cfg::chain`                                                          |
+| ‹Hall C geometry›                           | 12-detector strings and a longer tube                                                     | `string: units: n: 12` in a legend-pygeom-l1000 config                                     |
 
 ## References
 
